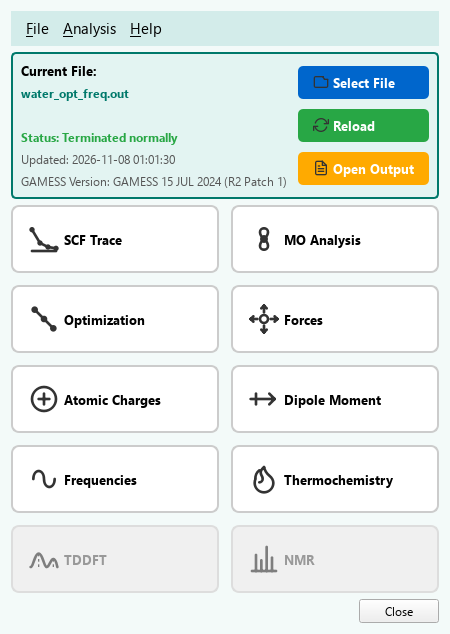
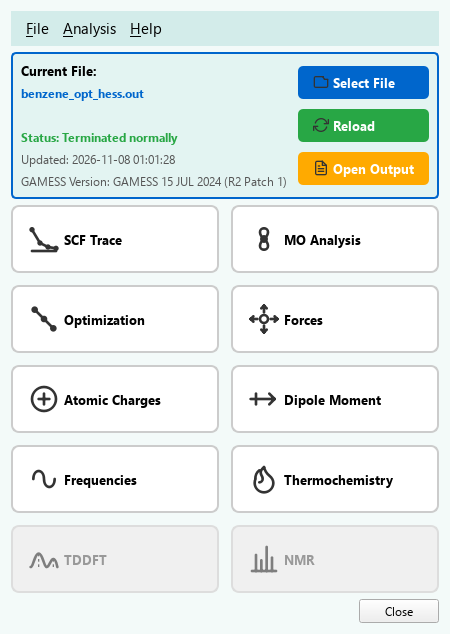
Release GAMESS Result Analyzer 0.2.0
Drop the under-development note from the description and retake the screenshots.

diff --git a/gamess_result_analyzer/__init__.py b/gamess_result_analyzer/__init__.py
@@ -1,9 +1,9 @@
 """Plugin entry points and metadata for the GAMESS Result Analyzer plugin."""
 
 PLUGIN_NAME = "GAMESS Result Analyzer"
-PLUGIN_VERSION = "0.1.2"
+PLUGIN_VERSION = "0.2.0"
 PLUGIN_AUTHOR = "HiroYokoyama"
-PLUGIN_DESCRIPTION = "UNDER DEVELOPMENT: Comprehensive analyzer for GAMESS output files (.log, .out). Includes Vibrational, MO, TDDFT, and NMR analysis."
+PLUGIN_DESCRIPTION = "Comprehensive analyzer for GAMESS output files (.log, .out). Includes Vibrational, MO, TDDFT, and NMR analysis."
 PLUGIN_TAGS = ["Analysis", "DFT", "File"]
 PLUGIN_SUPPORTED_MOLEDITPY_VERSION = ">=5.0.0, <6.0.0"
 PLUGIN_SUPPORTED_PYTHON_VERSION = ">=3.9, <3.15"
